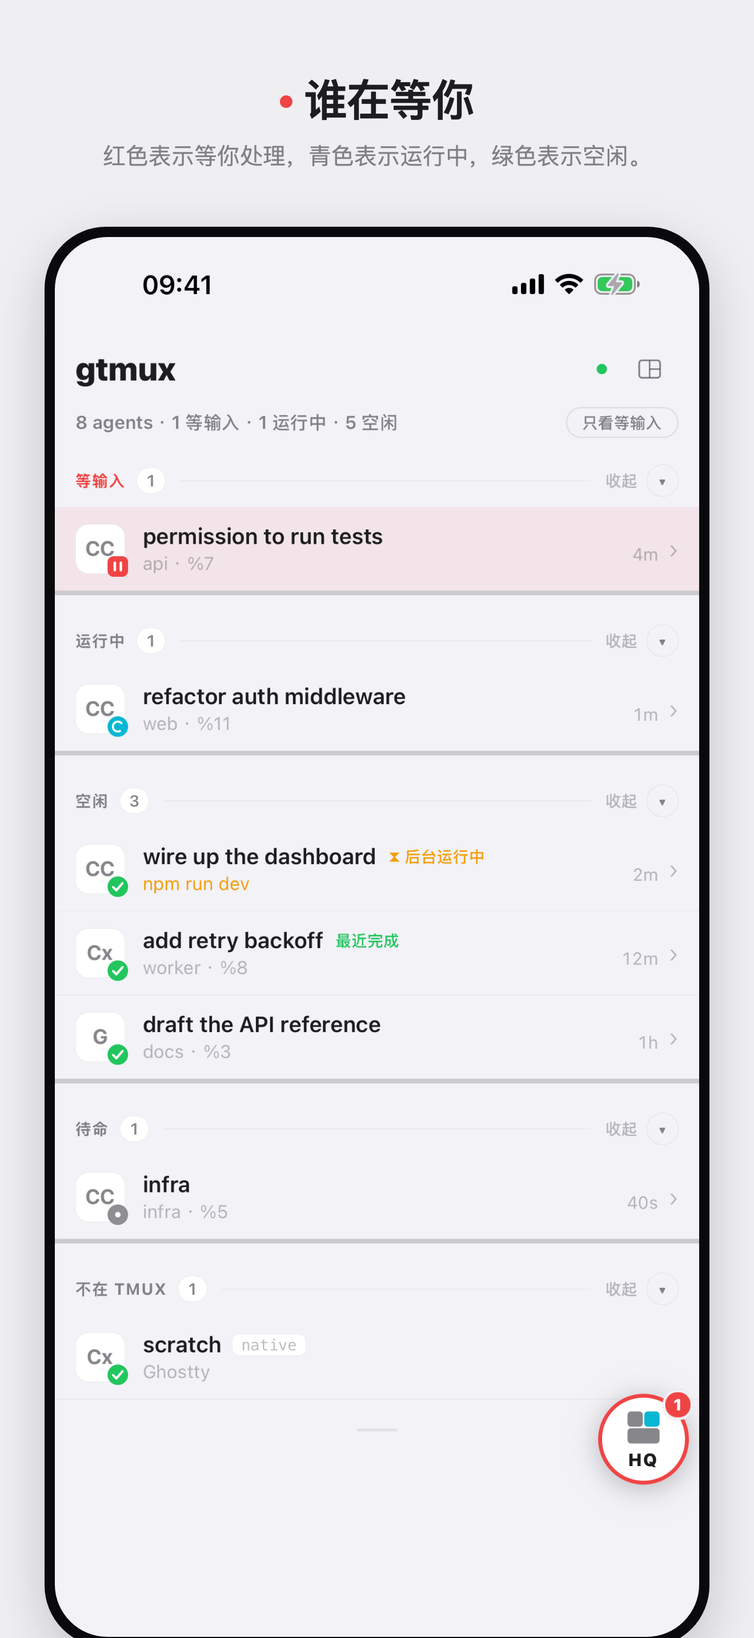
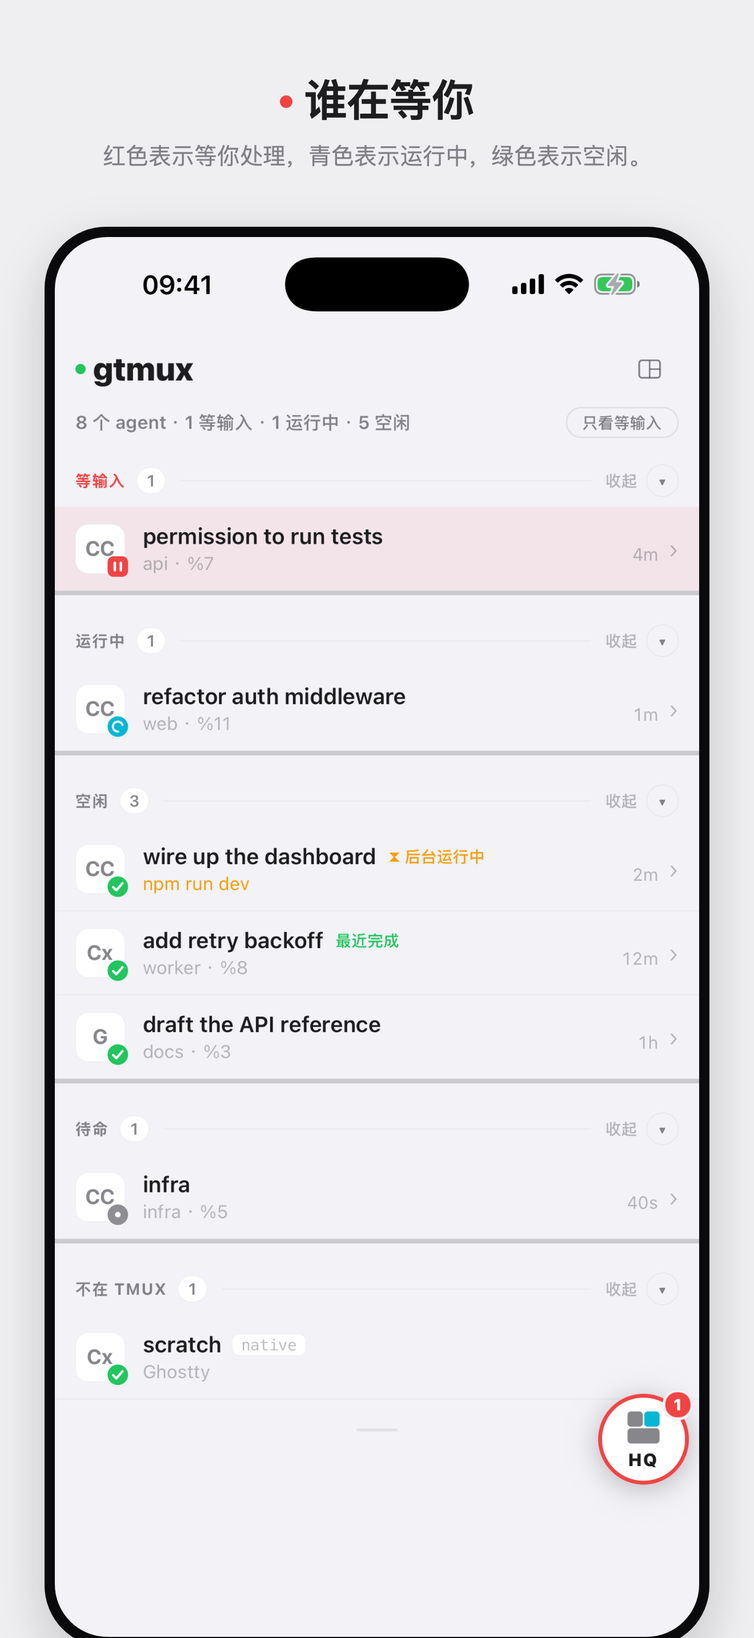
App Store 1.0.97: store text, privacy, review notes, screenshots (#1534)
* docs(appstore): 1.0.97 store text, privacy and review notes settled

The user asked to prepare the App Store submission (2026-10-07) and
decided two of its open questions: App Privacy stays Data Not
Collected, and review uses the built-in demo plus a revocable guest
link to an isolated demo session. Submission itself stays with the user.

- release-notes/store/1.0.97.{en,zh}.txt: the cumulative What's New
  since the last submission recorded here (1.0.70), written to the
  release-notes README rules, ending with the Mac requirement (gtmux
  1.0.95+: /api/host for Details, /api/sessions since 1.0.71).
  1.0.97.sources.md maps each claim to its per-version notes and lists
  what was left out. The live ASC version is still to be read before
  upload.
- fastlane description (en, zh): adds starting a tmux session from the
  phone, and says notifications pass through a relay that does not
  store them (the relay Worker has no KV and no logging).
- submit.md: the App Privacy row records the decision and its basis;
  the Review Notes template drops its "pending, do not submit" markers
  and names the camera's photo use and the push relay.
- MOBILE.zh.md: the circle behind ••• is the menu's colour, white in
  light mode and dark grey in dark (%6, review of #1532).

* fix(mobile): a store capture shows the seeded Macs answering

%6, taking the 1.0.97 App Store shots: 06-servers showed the open Mac
amber "Connecting…" and the others "Checking…", and 30s later red
[…]

diff --git a/mobileapp/src/screens/ServersScreen.tsx b/mobileapp/src/screens/ServersScreen.tsx
@@ -7,7 +7,7 @@
 // pushed from the radar's server chip while connected (has `navigation`, so it
 // can go back). Adding a Mac reuses PairingScreen in a modal.
 
-import React, {useEffect, useRef, useState} from 'react';
+import React, {useEffect, useMemo, useRef, useState} from 'react';
 import {
   AccessibilityInfo,
   Alert,
@@ -38,6 +38,8 @@ import {ServerDetailsSheet} from './ServerDetailsSheet';
 import {AnchoredMenu, MenuAnchor, MenuItem} from '../ui/AnchoredMenu';
 import {cachedHost, hostSummary, hostSystem, loadHost} from '../state/hostInfo';
 import type {HostAnswer} from '../api/types';
+import {Debug} from '../debug';
+import {APP_VERSION} from '../version';
 
 export function ServersScreen({navigation}: {navigation?: any}) {
   const {t, pal, lang, servers, activeUrl, selectServer, removeServer, renameServer, moveServer, disconnect,
@@ -113,7 +115,17 @@ export function ServersScreen({navigation}: {navigation?: any}) {
 
   // Whether each Mac answers, asked only while this page is shown. The open Mac also
   // speaks for its live link; the probe still runs for it, for when that link is down.
-  const reach = useReachability(servers.map(s => s.url), true);
+  const probed = useReachability(servers.map(s => s.url), true);
+  // SHOT_MODE, store screenshots only: the seeded Macs are addresses nothing answers, so the
+  // probe read Checking… and then Can't reach, and the open Mac's link stayed Connecting…
+  // (%6, the 1.0.97 captures). A capture shows them answering instead: the open Mac
+  // Connected, the rest Available, each with what it is. The shipped app never sets it.
+  const shot = Debug.shotMode;
+  const reach = useMemo<Record<string, Reach | undefined>>(
+    () => (shot ? Object.fromEntries(servers.map(s => [s.url, 'reachable' as Reach])) : probed),
+    [shot, servers, probed],
+  );
+  const conn = shot ? 'live' : agentsCtx?.conn;
   // A Mac whose notification setting is pending gets it again the moment a probe finds it
   // answering. That is what "Retry sync" asked the reader to do by hand, for a Mac they
   // could not see was off (2026-10-05).
@@ -137,6 +149,7 @@ export function ServersScreen({navigation}: {navigation?: any}) {
   const [hosts, setHosts] = useState<Record<string, HostAnswer | undefined>>(() =>
     Object.fromEntries(servers.filter(s => s.scope !== 'guest').map(s => [hostKey(s), cachedHost(s.url, s.token)])));
   useEffect(() => {
+    if (shot) return; // a capture is never asked: shotHost answers for it
     let live = true;
     const ask = () => {
       for (const s of servers) {
@@ -152,7 +165,7 @@ export function ServersScreen({navigation}: {navigation?: any}) {
       live = false;
       clearInterval(id);
     };
-  }, [reach, servers]);
+  }, [reach, servers, shot]);
   const [details, setDetails] = useState<PairedMac | null>(null);
 
   // What a Mac's status line says, and in what colour. Its row says it, and so does the
@@ -161,10 +174,10 @@ export function ServersScreen({navigation}: {navigation?: any}) {
   // and the whole line wrapped to two lines under the title on an iPhone (%6, #1532).
   const statusOf = (s: PairedMac, guest = s.scope === 'guest') => {
     const active = s.url === activeUrl;
-    const what = guest ? undefined : hosts[hostKey(s)];
+    const what = guest ? undefined : shot ? shotHost(s) : hosts[hostKey(s)];
     const st = rowStatus({
       active,
-      conn: active ? agentsCtx?.conn : undefined,
+      conn: active ? conn : undefined,
       reach: reach[s.url],
       pending: !guest && pushSync[s.url] === 'pending',
       mayNotify: !pushPaused && s.pushEnabled !== false,
@@ -191,7 +204,7 @@ export function ServersScreen({navigation}: {navigation?: any}) {
     drag: {lift: () => void; onPressOut: () => void; lifted: boolean},
   ) => {
     const active = s.url === activeUrl;
-    const connected = active && agentsCtx?.conn === 'live';
+    const connected = active && conn === 'live';
     const muted = s.pushEnabled === false;
     const {st, text: status, tone} = statusOf(s, guest);
     const awake = connected && srvOn;
@@ -451,6 +464,13 @@ export function ServersScreen({navigation}: {navigation?: any}) {
 }
 
 const hit = {top: 10, bottom: 10, left: 10, right: 10};
+
+/** What a seeded Mac is in a store capture (SHOT_MODE): its own name and a current macOS. */
+function shotHost(s: PairedMac): HostAnswer {
+  const name = s.macName ?? s.name;
+  return {ok: true, info: {hostname: `${name.replace(/[^A-Za-z0-9]+/g, '-')}.local`, computer_name: name, os: 'macOS',
+    os_version: '26.1', arch: 'arm64', cores: 12, gtmux_version: APP_VERSION, serve_started: 0}};
+}
 
 /** The status dot's colour: the connection colours (green / amber / red), grey unknown. */
 function toneColor(tone: RowTone, unknown: string): string {

diff --git a/mobileapp/src/screens/ServersScreen.test.tsx b/mobileapp/src/screens/ServersScreen.test.tsx
@@ -9,6 +9,7 @@ import {useAgentsOptional} from '../state/AgentsContext';
 import {paletteFor} from '../ui/theme';
 import {makeT} from '../i18n';
 import {forgetHosts} from '../state/hostInfo';
+import {Debug} from '../debug';
 jest.mock('../state/AppContext', () => ({useApp: jest.fn()}));
 jest.mock('../state/AgentsContext', () => ({useAgentsOptional: jest.fn()}));
 jest.mock('./PairingScreen', () => ({PairingScreen: () => null}));
@@ -181,6 +182,24 @@ test('a removal that fails says the Mac is still in the list', async () => {
     await new Promise<void>(r => setTimeout(() => r(), 0));
   });
   expect(alert.mock.calls.map(c => c[0])).toContain("Couldn't remove this Mac, so it is still in the list.");
+});
+
+// Store captures (SHOT_MODE): the seeded Macs are addresses nothing answers, so a capture
+// showed the open Mac Connecting… and the rest Checking…, then Can't reach (%6, 1.0.97).
+test('a store capture shows every seeded Mac answering, and asks none of them', async () => {
+  (Debug as any).shotMode = true;
+  try {
+    agents = {conn: 'connecting', client: {serverMode: jest.fn().mockResolvedValue({state: 'off'})}};
+    answers = {}; // nothing answers the probe
+    await render();
+    for (let i = 0; i < 3; i++) await act(async () => { await new Promise<void>(r => setTimeout(() => r(), 0)); });
+    expect(row('Office Mac').props.accessibilityLabel).toBe('Office Mac, current, Connected · Office Mac · macOS 26.1');
+    expect(row('Home Mac').props.accessibilityLabel).toBe('Home Mac, Available · Home Mac · macOS 26.1');
+    expect(row('Guest Mac').props.accessibilityLabel).toBe('Guest Mac, Available'); // a share link is never described
+    expect((globalThis.fetch as jest.Mock).mock.calls.filter(c => String(c[0]).endsWith('/api/host'))).toHaveLength(0);
+  } finally {
+    (Debug as any).shotMode = false;
+  }
 });
 
 // More is a menu that drops from ••• (2026-10-07, the user's markup of the alert it replaced):

diff --git a/mobileapp/src/state/AppContext.tsx b/mobileapp/src/state/AppContext.tsx
@@ -165,10 +165,10 @@ export function AppProvider({children}: {children: React.ReactNode}) {
           /* malformed seed — ignore */
         }
       }
-      // SHOT_MODE: mark the first seeded Mac active so its Servers-page row shows a green
-      // "connected" dot (the rest stay grey "saved") — the honest one-active-many-saved
-      // look, vs an all-grey "nothing connected" list. Capture-only. The harness lands on
-      // the radar first, then opens the Servers page via the server chip.
+      // SHOT_MODE: mark the first seeded Mac active, so the Servers page has one open Mac
+      // among several saved ones. The page itself shows them answering (ServersScreen):
+      // nothing answers a seeded address. Capture-only. The harness lands on the radar
+      // first, then opens the Servers page via the server chip.
       if (Debug.shotMode && act == null && svs.length > 0) {
         act = svs[0].url;
       }

diff --git a/mobileapp/e2e/__tests__/appstore-shots.test.ts b/mobileapp/e2e/__tests__/appstore-shots.test.ts
@@ -112,8 +112,9 @@ gated('app store demo shots', () => {
 
     // 4) Servers — the multi-Mac story: one phone managing agents across several Macs
     //    (own Macs full-control + a scoped guest connection). Seeded via GTMUX_DEBUG_SERVERS
-    //    (no active → the app lands on the two-track Servers page); SHOT_MODE greens the
-    //    first row's connected dot.
+    //    (no active → the app lands on the two-track Servers page). Under SHOT_MODE the
+    //    first Mac is the open one and the page shows every seeded Mac answering: the open
+    //    one Connected, the rest Available with what each is (ServersScreen).
     const servers = JSON.stringify([
       {url: 'dev-mbp.local:8765', token: 'demo', name: 'MacBook Pro'},
       {url: 'studio.local:8765', token: 'demo', name: 'Mac Studio'},

diff --git a/docs/design/MOBILE.zh.md b/docs/design/MOBILE.zh.md
@@ -903,7 +903,7 @@ regular 壳把它渲染进主区。推送深链、HQ 页的「打开会话」、
   可以走局域网、隧道或 VPN。收到推送不等于这条连接已经可用。
 - **连接设置（2026-10-01，`mobile-connection-settings`）。** 分组标题写 Mac 名称，「状态」显示连接情况，「线路」显示当前或上次使用的节点，「分享与配对」管理分享链接和配对设备。「切换 Mac」独立分组。自己的 Mac 始终保留线路入口，加载中、请求失败、无线路或仅一条线路都不隐藏。访客不显示该入口，目的地仍放在状态行。离线时保留上次线路，提示连接后才能切换。刷新失败保留已知线路，并可进入线路页重试；不再把空列表说成只有一条线路。成功返回空列表时，明确说明 Mac 未提供直连线路。列表先显示，延迟逐项更新；旧请求、旧 Mac 的响应及切换前的探测结果均不得覆盖新状态。返回设置或重新连接时刷新。仅可切换到设备可访问的线路，离线或读取失败时禁用切换。延迟由当前设备测量，并显示测量时间。
 - **每台 Mac 是哪台机器（2026-10-06，server-host-details；用户要求看到每台服务器真实的主机名和系统）。** 自己配对的 Mac 探测到有回应后，问 `GET /api/host`；结果按凭证缓存五分钟（地址加 token，不只按地址，所以同一地址的访客链接永远看不到 owner 的结果），页面打开期间每分钟检查一次，过期就重新问。状态行后面加一段：「可以连接 · Studio · macOS 26.1」（它的电脑名称，没有就用主机名，加上系统）。这是加在现有那一行上，从不另起第三行，理由和下面「每行两行」的规矩一样：晚到的结果不能让列表跳动。••• 里多了**详细信息**：表头是用户给它起的名字，下面是它的状态和系统（「已连接 · macOS 26.1」：列表行里还带着电脑名，而下面「这台 Mac」里就有，iPhone 上整行会折成两行），旁边是「完成」；再分三组：这台手机上（地址，带复制按钮；权限）、这台 Mac（电脑名称、主机名、系统和 build 号、芯片和架构、核心数、内存、开机时长）、gtmux（版本、serve 已运行多久、tmux）。没有的字段不显示。**版式（2026-10-07，按用户的标注重排）：**每组是一张内缩的卡片，底色比 sheet 本身高一级（`raised`，RowSheet 里的控件也是这样），不再从一边贴到另一边；标签从不把宽度让给值——以前一长串芯片名把「芯片」挤成一个字一行；短值和标签同一行，长值（地址、主机名、芯片）放到标签下面占满整行；值用正文色、标签用次要色，以前值用的是设置行那种很淡的 `fg3`。芯片去掉 Intel 的「(R)」「(TM)」和「CPU」。没有「名称」行，标题就是名称。和所有底部弹窗（SheetShell）一样，它的高度不超过窗口减去顶部安全区再留 24pt，所以横屏时在表内滚动，不会顶出屏幕上沿（F14）；表内容外面也不再有接管触摸的层，里面的滚动区才拖得动（F15：每张表外面包着一个什么都不做的 Pressable，详细信息在竖屏和横屏下都滚不动）。弹窗会重新问一次；连不上的 Mac 仍显示第一组，并说明连不上；旧版 gtmux（404）会说版本太旧；凭证被拒（401）会提示重新配对，那台 Mac 的状态行也改成红色「访问被拒」，不再写「可以连接」（探测只说明它有回应，401 说明它不接受这部手机）；访客链接从不去问，直接说明看不到这些信息。「核心数」显示为逻辑 CPU：serve 报的是它这个进程能用的 CPU 数和 gtmux 运行的架构，不是另做的硬件探测。
-- **服务器列表：两层信息，每台 Mac 两行（2026-10-05，servers-reachability；2026-10-03 起是每台一行）。** 每行说两件事，各用一个记号。**当前连的是哪台**：名字前打勾，像 iOS 的 Wi-Fi 列表，只有那一行有。**每台连不连得通**：每个名字下面一行状态。当前那台说的是实际连接：实心点，绿色「已连接」、琥珀「连接中」、红色「访问被拒」或「连不上」。其余每台说的是探测结果：空心点，绿色「可以连接」、红色「连不上」、灰色「检查中…」。探测用的是不需要登录的 `GET /api/health`，只在这一页打开时发：进来时一次，之后每 15 秒一次。「可以连接」只说明那台 Mac 有回应，不保证它接受这部手机。每行固定两行高，不管什么状态。待同步的通知设置写在状态行后面（「连不上 · 连上后才开始推送通知」）；正在同步不显示。以前每点一下整页都会跳：任何改动都会把所有 Mac 标成「同步中」，每一行先多出一行「正在同步…」，再缩回去。不再有「重新同步」按钮：通知设置待同步的 Mac，一被探测到有回应就自动再同步一次。下面是 2026-10-03 起仍然有效的部分：「我的 Mac」「分享给我的」各是一张卡片，行式排列，像 Wi-Fi 列表：名称、铃铛、•••。点行即连接；铃铛和 ••• 是各自独立、可访问的点击区（铃铛对 VoiceOver 是开关：「<Mac> · 接收通知」）。铃铛表达这台 Mac 存下的选择：开为品牌色，关为灰色加斜线。地址挪进 ••• 菜单，放在名称下面——原来一台 Mac 一张卡，名称、地址、状态、通知四行，说的事一行就够。（2026-10-05 之前，只有需要读的时候才出第二行，另有独立的「重新同步」；这两样都由上面的状态行取代。）总设置暂停只在「我的 Mac」卡片下面说一次，不再每行重复。只有实际连上的 Mac 显示绿色，服务器模式圈也只属于对应的 Mac。「重命名」和移除都在「更多操作」里（移除仍需确认）；断开连接用中性样式。**「更多操作」是从 ••• 垂下来的菜单（2026-10-07；原来是系统弹窗，五个一样大的按钮竖排在屏幕中间，删除夹在中性操作之间，「取消」还单占一行）。**菜单头是名称，改过名时接着是 Mac 自己的名字，然后是地址，只写主机名，不带 `https://`。下面分三组：详细信息、重命名；断开连接，只在当前连着的那台上有；最后是红色的「移除这台服务器…」，仍要先确认。点菜单外面就关掉，所以没有「取消」。它在 ••• 下方、右边对齐；下面放不下就放到上面。量到 ••• 的位置之前一直隐藏，所以不会先出现在一处再跳到另一处；150ms 内还没量到，就显示在窗口右上角。菜单打开时，••• 留在压暗层上面，衬一个白色圆底，看得出菜单是从哪里出来的。菜单项对 VoiceOver 是按钮：「menuitem」在新架构下没有任何 trait，读出来像普通文字。点了某一项，要等菜单关掉才执行，因为菜单还在消失时，iOS 不会弹出下一个提示框或 sheet。访客行没有铃铛。手机和 iPad 共用 ContentColumn 中的界面。
+- **服务器列表：两层信息，每台 Mac 两行（2026-10-05，servers-reachability；2026-10-03 起是每台一行）。** 每行说两件事，各用一个记号。**当前连的是哪台**：名字前打勾，像 iOS 的 Wi-Fi 列表，只有那一行有。**每台连不连得通**：每个名字下面一行状态。当前那台说的是实际连接：实心点，绿色「已连接」、琥珀「连接中」、红色「访问被拒」或「连不上」。其余每台说的是探测结果：空心点，绿色「可以连接」、红色「连不上」、灰色「检查中…」。探测用的是不需要登录的 `GET /api/health`，只在这一页打开时发：进来时一次，之后每 15 秒一次。「可以连接」只说明那台 Mac 有回应，不保证它接受这部手机。每行固定两行高，不管什么状态。待同步的通知设置写在状态行后面（「连不上 · 连上后才开始推送通知」）；正在同步不显示。以前每点一下整页都会跳：任何改动都会把所有 Mac 标成「同步中」，每一行先多出一行「正在同步…」，再缩回去。不再有「重新同步」按钮：通知设置待同步的 Mac，一被探测到有回应就自动再同步一次。下面是 2026-10-03 起仍然有效的部分：「我的 Mac」「分享给我的」各是一张卡片，行式排列，像 Wi-Fi 列表：名称、铃铛、•••。点行即连接；铃铛和 ••• 是各自独立、可访问的点击区（铃铛对 VoiceOver 是开关：「<Mac> · 接收通知」）。铃铛表达这台 Mac 存下的选择：开为品牌色，关为灰色加斜线。地址挪进 ••• 菜单，放在名称下面——原来一台 Mac 一张卡，名称、地址、状态、通知四行，说的事一行就够。（2026-10-05 之前，只有需要读的时候才出第二行，另有独立的「重新同步」；这两样都由上面的状态行取代。）总设置暂停只在「我的 Mac」卡片下面说一次，不再每行重复。只有实际连上的 Mac 显示绿色，服务器模式圈也只属于对应的 Mac。「重命名」和移除都在「更多操作」里（移除仍需确认）；断开连接用中性样式。**「更多操作」是从 ••• 垂下来的菜单（2026-10-07；原来是系统弹窗，五个一样大的按钮竖排在屏幕中间，删除夹在中性操作之间，「取消」还单占一行）。**菜单头是名称，改过名时接着是 Mac 自己的名字，然后是地址，只写主机名，不带 `https://`。下面分三组：详细信息、重命名；断开连接，只在当前连着的那台上有；最后是红色的「移除这台服务器…」，仍要先确认。点菜单外面就关掉，所以没有「取消」。它在 ••• 下方、右边对齐；下面放不下就放到上面。量到 ••• 的位置之前一直隐藏，所以不会先出现在一处再跳到另一处；150ms 内还没量到，就显示在窗口右上角。菜单打开时，••• 留在压暗层上面，衬一个和菜单同色的圆底（浅色下是白色，深色下是深灰），看得出菜单是从哪里出来的。菜单项对 VoiceOver 是按钮：「menuitem」在新架构下没有任何 trait，读出来像普通文字。点了某一项，要等菜单关掉才执行，因为菜单还在消失时，iOS 不会弹出下一个提示框或 sheet。访客行没有铃铛。手机和 iPad 共用 ContentColumn 中的界面。
 - **顺序由用户定（2026-10-05）。** 按住一行拖动：这一行浮起，页面停止滚动，中间的行让开、显示落点（拖过半行就换位），手指靠近页面上下边缘时页面自己滚。松手即保存；被系统打断的手势、按住后原地松手，都什么也不改。两组（我的 Mac、分享给我的）各排各的。VoiceOver 在每一行上有「上移 / 下移」，并会读出新的位置。点行仍然是连接，拖动绝不会触发点击；铃铛和 ••• 各自的点击不变。顺序就是存下来的列表本身的顺序，存在这部手机上，按 url 认：新加的 Mac 放到最后，重新配对或换了地址都留在原位（以前这两种都会被挪到最前），删掉一台，其余的顺序不变。先写入再显示，没存上的顺序会退回原样并说明。没有引入手势库：用 `PanResponder` + `Animated`，和 HQDisc 一样（`src/ui/ReorderableList.tsx`）。
 - **重命名只改手机上的叫法，不动 Mac。** Mac 的名字是它的 macOS 电脑名（如「MBP-C35NXHDQDG-2300」），gtmux 不该去改。「重命名」（在 ••• 里，系统文本框，预填当前名字）把新名字存在手机上，app 里凡是提到这台 Mac 的地方都用它。Mac 自己的名字保留在旁边，因为推送带的是它：通知路由和快捷回复仍按它匹配；通知副标题也仍显示它——通知扩展读不到 app 的存储。输入框里直接说明这一点，免得用户意外。留空即恢复原名；重新配对保留手机上的名字。改过名的 Mac，••• 里在地址上方显示它自己的名字。
 - **手机上永远不说「这台 Mac」。** 它指的是一台不在眼前的机器，配对了好几台时更无从分辨。每句话都直呼 Mac 的名字（「MacBook Pro 能用的线路」「连着 MacBook Pro 的设备都会跟着换」），没起名时退回「你的 Mac」。菜单栏上人就坐在机器前面，改说「本机」。

diff --git a/mobileapp/release-notes/store/1.0.97.sources.md b/mobileapp/release-notes/store/1.0.97.sources.md
@@ -1,0 +1,25 @@
+# App Store 1.0.97 preparation
+
+Baseline: the last submission recorded in this archive is 1.0.70 (`store/1.0.70.*`, 2026-09-30). The live App Store version must still be read from ASC before upload; if it is not 1.0.70, revisit this list.
+Candidate: v1.0.97 (f2bdca08). Reviewed the per-version phone notes 1.0.71 through 1.0.97 and the companion-Mac versions that the claims depend on.
+
+| Store claim | Evidence (per-version notes) |
+| --- | --- |
+| Which Mac is open, whether each answers | 1.0.92 |
+| Drag to reorder Macs | 1.0.89 |
+| ••• menu: details, rename, disconnect, remove | 1.0.74 (rename), 1.0.95 (Details), 1.0.97 (menu) |
+| Switch Mac from the radar's name | 1.0.92 |
+| Access rejected, pair again | 1.0.87, 1.0.89 |
+| New tmux session from the phone | 1.0.71, 1.0.93 |
+| Terminal fits the phone, redraws changed lines | 1.0.75, 1.0.95 |
+| Codex pinned prompt bar | 1.0.75, 1.0.76 |
+| Sending to a session that is asking or working | 1.0.90, 1.0.94 |
+| Muting a Mac ends its Live Activity | 1.0.74 |
+| Share-link code opens as a guest; why a change did not take | 1.0.95, 1.0.89 |
+| HQ page header and "What HQ did" | 1.0.83, 1.0.93 |
+| Fits better at the largest text sizes and in landscape (fixed place by place) | 1.0.84, 1.0.95 |
+| Mac requirement: 1.0.95+ for Details, 1.0.71+ for new sessions | `GET /api/host` (Details) first shipped in v1.0.95; `POST /api/sessions` (new session) in v1.0.71 |
+
+Omitted as minor or internal: emoji line wrapping (1.0.76), HQ messages unfolded in chat (1.0.78), Return sends (1.0.85), camera error reasons (1.0.86), English plural counts (1.0.88), marked-up picture size (1.0.89), input-box redraw trimming (1.0.94), agent icon refresh and share-sheet terminal card (1.0.96), inline code in prose (1.0.97).
+Per-version in-app notes stay unchanged; these two files are the cumulative store text. Copy them into `fastlane/metadata/*/release_notes.txt` only for the metadata upload, and restore the per-version text before the next stamp (see ../README.md).
+Submission remains with the user.
